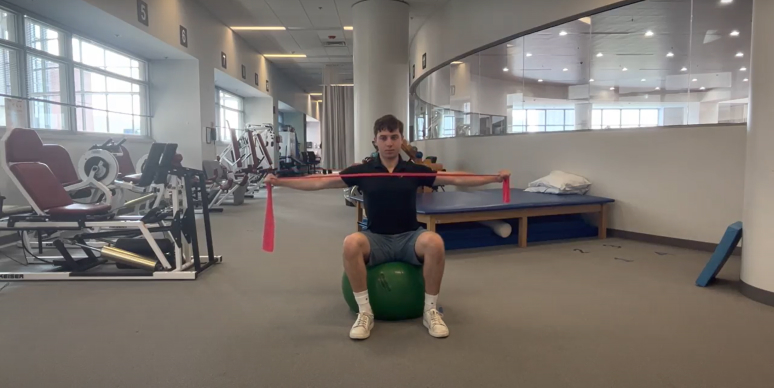
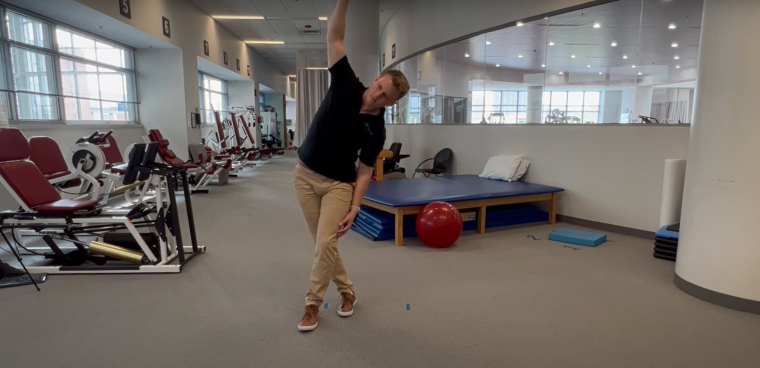
running out of time frustrated with some styling and other details needing to be fleshed out and troubleshot

diff --git a/src/Components/ExerciseViewer/index.tsx b/src/Components/ExerciseViewer/index.tsx
@@ -3,6 +3,10 @@ import { motion, MotionConfig, AnimatePresence } from "framer-motion";
 import { ChevronLeftIcon, ChevronRightIcon } from "@heroicons/react/24/outline";
 
 import image1 from '../../assets/img/image1.jpg';
+import image2 from '../../assets/img/image2.jpg';
+import image3 from '../../assets/img/image3.jpg';
+import defaultImage from '../../assets/img/defaultImage.jpg';
+
 import { metadata } from "../../mockData/metadata";
 
 import setupSVG from "../../assets/svg/setup.svg";
@@ -57,7 +61,7 @@ const Exercise = ({ exercise, isActive }: ExerciseProps) => (
     <div className="flex h-full flex-col justify-between bg-white rounded-xl p-4">
       <div>
         <AnimatePresence>
-          <div className="pr-6 w-full mb-8">
+          <div className="pr-6 w-full mb-8 min-h-[324px]">
             {/* Exercise Name Here is Dynamic */}
             <motion.div
               key={exercise.friendlyExerciseName}
@@ -96,70 +100,70 @@ const Exercise = ({ exercise, isActive }: ExerciseProps) => (
             {/* Animation for Setup Instructions */}
             <div className="flex flex-row">
               <img src={setupSVG} className="w-10 h-10" alt="setupIcon" />
-              <motion.div
-                key={`${exercise.friendlyExerciseName}-setup`}
-                initial={{ scale: 0.7, opacity: 0 }}
-                animate={{ scale: 1, opacity: 1 }}
-                exit={{ scale: 0.7, opacity: 0 }}
-                transition={{ duration: 0.3, ease: [0.32, 0.72, 0, 1] }}
-              >
                 <div className="mb-4 ml-5 h-[60px] font-sans">
                   <h3 className="font-semibold">Setup</h3>
-                  {exercise.exerciseDetails.instructions.setup.map(
-                    (step, index) => (
-                      <p className="text-sm text-neutral-600" key={index}>
-                        {step}
-                      </p>
-                    )
-                  )}
+                  <motion.div
+                    key={`${exercise.friendlyExerciseName}-setup`}
+                    initial={{ scale: 0.7, opacity: 0 }}
+                    animate={{ scale: 1, opacity: 1 }}
+                    exit={{ scale: 0.7, opacity: 0 }}
+                    transition={{ duration: 0.3, ease: [0.32, 0.72, 0, 1] }}
+                  >
+                      {exercise.exerciseDetails.instructions.setup.map(
+                        (step, index) => (
+                          <p className="text-sm text-neutral-600" key={index}>
+                            {step}
+                          </p>
+                        )
+                      )}
+                  </motion.div>
                 </div>
-              </motion.div>
             </div>
 
             {/* Animation for Movement Instructions */}
             <div className="flex flex-row">
               <img src={movementSVG} className="w-10 h-10" alt="movementIcon" />
-              <motion.div
-                key={`${exercise.friendlyExerciseName}-movement`}
-                initial={{ scale: 0.7, opacity: 0 }}
-                animate={{ scale: 1, opacity: 1 }}
-                exit={{ scale: 0.7, opacity: 0 }}
-                transition={{ duration: 0.3, ease: [0.32, 0.72, 0, 1] }}
-              >
                 <div className="mb-4 ml-5 h-[60px] font-sans">
                   <h3 className="font-semibold">Movement</h3>
-                  {exercise.exerciseDetails.instructions.movement.map(
-                    (step, index) => (
-                      <p className="text-sm text-neutral-600" key={index}>
-                        {step}
-                      </p>
-                    )
-                  )}
-                </div>
-              </motion.div>
+                  <motion.div
+                    key={`${exercise.friendlyExerciseName}-movement`}
+                    initial={{ scale: 0.7, opacity: 0 }}
+                    animate={{ scale: 1, opacity: 1 }}
+                    exit={{ scale: 0.7, opacity: 0 }}
+                    transition={{ duration: 0.3, ease: [0.32, 0.72, 0, 1] }}
+                  >
+                      {exercise.exerciseDetails.instructions.movement.map(
+                        (step, index) => (
+                          <p className="text-sm text-neutral-600" key={index}>
+                            {step}
+                          </p>
+                        )
+                      )}
+                  </motion.div>
+              </div>
             </div>
 
             {/* Animation for Tips Instructions */}
             <div className="flex flex-row">
               <img src={tipsSVG} className="w-10 h-10" alt="tipsIcon" />
-              <motion.div
-                key={`${exercise.friendlyExerciseName}-tips`}
-                initial={{ scale: 0.7, opacity: 0 }}
-                animate={{ scale: 1, opacity: 1 }}
-                exit={{ scale: 0.7, opacity: 0 }}
-                transition={{ duration: 0.3, ease: [0.32, 0.72, 0, 1] }}
-              >
                 <div className="mb-4 ml-5 h-[80px] font-sans overflow-y-scroll">
                   <h3 className="font-semibold">Tips</h3>
-                  {exercise.exerciseDetails.instructions.tips.map(
-                    (tip, index) => (
-                      <p className="text-sm text-neutral-600" key={index}>
-                        {tip}
-                      </p>
-                    )
-                  )}
-                </div>
-              </motion.div>
+                  <motion.div
+                    key={`${exercise.friendlyExerciseName}-tips`}
+                    initial={{ scale: 0.7, opacity: 0 }}
+                    animate={{ scale: 1, opacity: 1 }}
+                    exit={{ scale: 0.7, opacity: 0 }}
+                    transition={{ duration: 0.3, ease: [0.32, 0.72, 0, 1] }}
+                  >
+                      {exercise.exerciseDetails.instructions.tips.map(
+                        (tip, index) => (
+                          <p className="text-sm text-neutral-600" key={index}>
+                            {tip}
+                          </p>
+                        )
+                      )}
+                  </motion.div>
+              </div>
             </div>
           </div>
         </AnimatePresence>
@@ -177,11 +181,26 @@ interface ExerciseCarouselProps {
   exercises: ExerciseMetadataArray;
 }
 
+  //DYNAMICALLY CHANGE IMAGE ALONG WITH THE EXERCISE SETUP:
+const exerciseImages: Record<string, string> = {
+  SIDELYING_HIP_ABDUCTION: image1,
+  SHOULDER_HORIZONTAL_ABDUCTION_WITH_RESISTANCE_ON_SWISS_BALL: image2,
+  STANDING_ITB_STRETCH: image3,
+};
+//FALLBACK IN CASE OF ISSUES WITH THE IMAGE
+const fallbackImage = defaultImage;
+
+
 const ExerciseCarousel = ({ exercises }: ExerciseCarouselProps) => {
   const [index, setIndex] = useState(0);
 
   // HERE WE ARE USING useMemo TO CACHE THE ACTIVE EXERCISE
   const activeExercise = useMemo(() => exercises[index], [exercises, index]);
+
+  //GET THE CURRENT IMAGE FOR THE EXERCISE OR THE FALLBACK IMAGE HERE
+  const currentImage =
+    exerciseImages[activeExercise.exerciseBlueprint.exerciseId] ||
+    fallbackImage;
 
   // CHANGED TO A FUNCTION TO GO TO THE NEXT EXERCISE INSTEAD OF INLINE FUNCTION THAT PREV WAS ONLY CHANGING THE INDEX BY 1
   // AND ALSO MEMOIZED THE FUNCTION AND ADDED useCallback TO PREVENT UNNECESSARY RE-RENDERS
@@ -207,46 +226,59 @@ const ExerciseCarousel = ({ exercises }: ExerciseCarouselProps) => {
   return (
     <MotionConfig transition={{ duration: 0.4, ease: [0.32, 0.72, 0, 1] }}>
       <div className="h-full bg-white">
-        <div className="mx-auto flex h-full max-w-7xl flex-col justify-center rounded-xl">
-          <div className="relative rounded-xl">
-            <AnimatePresence initial={false}>
-              {activeExercise && (
-                <Exercise
-                  key={activeExercise.exerciseBlueprint.exerciseId}
-                  exercise={activeExercise}
-                  isActive={true}
+        <div className="mx-auto max-w-7xl flex-col justify-center rounded-xl">
+          <div className="grid grid-cols-3 gap-4 relative">
+            {/* IMAGE ANIMATION WAS PRESENTING ISSUES AND RAN OUT OF TIME SO SOME OF THIS IS A BIT JANKY*/}
+            <div className="col-span-1 flex items-center justify-center min-w-[375px]">
+              <img
+                  key={currentImage}
+                  src={currentImage}
+                  alt="Current exercise"
+                  className="rounded-lg object-contain max-h-full max-w-full transition-all ease-in-out duration-500"
                 />
-              )}
-            </AnimatePresence>
+     
+            </div>
 
-            <motion.button
-              initial={{ opacity: 0 }}
-              animate={{ opacity: 0.7 }}
-              exit={{ opacity: 0, pointerEvents: "none" }}
-              whileHover={{
-                opacity: 1,
-                backgroundColor: "#076787",
-              }}
-              className="absolute right-28 bottom-0 flex h-9 w-9 items-center justify-center rounded-full outline outline-1 hover:outline-none bg-white hover:text-white"
-              onClick={goPrevious}
-            >
-              <ChevronLeftIcon className="h-5 w-5 text-black hover:text-white" />
-            </motion.button>
+            {/* EXERCISE INFO ANIMATION */}
+            <div className="col-span-2">
+              <AnimatePresence initial={false}>
+                {activeExercise && (
+                  <Exercise
+                    key={activeExercise.exerciseBlueprint.exerciseId}
+                    exercise={activeExercise}
+                    isActive={true}
+                  />
+                )}
+              </AnimatePresence>
 
-            <motion.button
-              initial={{ opacity: 0 }}
-              animate={{ opacity: 0.7 }}
-              exit={{ opacity: 0, pointerEvents: "none" }}
-              whileHover={{
-                opacity: 1,
-                backgroundColor: "#076787",
-              }}
-              className="absolute right-14 bottom-0 flex h-9 w-9 items-center justify-center rounded-full outline outline-1 hover:outline-none bg-white hover:text-white"
-              onClick={goNext}
-            >
-              <ChevronRightIcon className="h-5 w-5 text-black hover:text-white" />
-            </motion.button>
+              <motion.button
+                initial={{ opacity: 0 }}
+                animate={{ opacity: 0.7 }}
+                exit={{ opacity: 0, pointerEvents: "none" }}
+                whileHover={{
+                  opacity: 1,
+                  backgroundColor: "#076787",
+                }}
+                className="absolute right-28 bottom-0 flex h-9 w-9 items-center justify-center rounded-full outline outline-1 hover:outline-none bg-white hover:text-white"
+                onClick={goPrevious}
+              >
+                <ChevronLeftIcon className="h-5 w-5 text-black hover:text-white" />
+              </motion.button>
 
+              <motion.button
+                initial={{ opacity: 0 }}
+                animate={{ opacity: 0.7 }}
+                exit={{ opacity: 0, pointerEvents: "none" }}
+                whileHover={{
+                  opacity: 1,
+                  backgroundColor: "#076787",
+                }}
+                className="absolute right-14 bottom-0 flex h-9 w-9 items-center justify-center rounded-full outline outline-1 hover:outline-none bg-white hover:text-white"
+                onClick={goNext}
+              >
+                <ChevronRightIcon className="h-5 w-5 text-black hover:text-white" />
+              </motion.button>
+            </div>
           </div>
         </div>
       </div>
@@ -254,19 +286,13 @@ const ExerciseCarousel = ({ exercises }: ExerciseCarouselProps) => {
   );
 };
 
+
 const ExerciseViewer = () => {
+
   return (
     <section className="bg-white mt-4 md:mt-3 shadow-xl rounded-xl">
       <div className="mx-auto max-w-[1200px] max-h-[500px] px-4 py-6 sm:px-6 sm:py-6 lg:me-0 lg:pe-0 lg:ps-8">
-        <div className="items-center grid gap-y-8 grid-cols-3 lg:items-center lg:gap-x-10">
-          <div className="col-span-1 text-black text-center ltr:sm:text-left rtl:sm:text-right">
-            <img src={image1} alt="exercise" className="rounded-lg" />
-          </div>
-
-          <div className="col-span-2 lg:mx-0 mt-4 sm:mt-0">
-            <ExerciseCarousel exercises={metadata} />
-          </div>
-        </div>
+        <ExerciseCarousel exercises={metadata} />
       </div>
     </section>
   );
